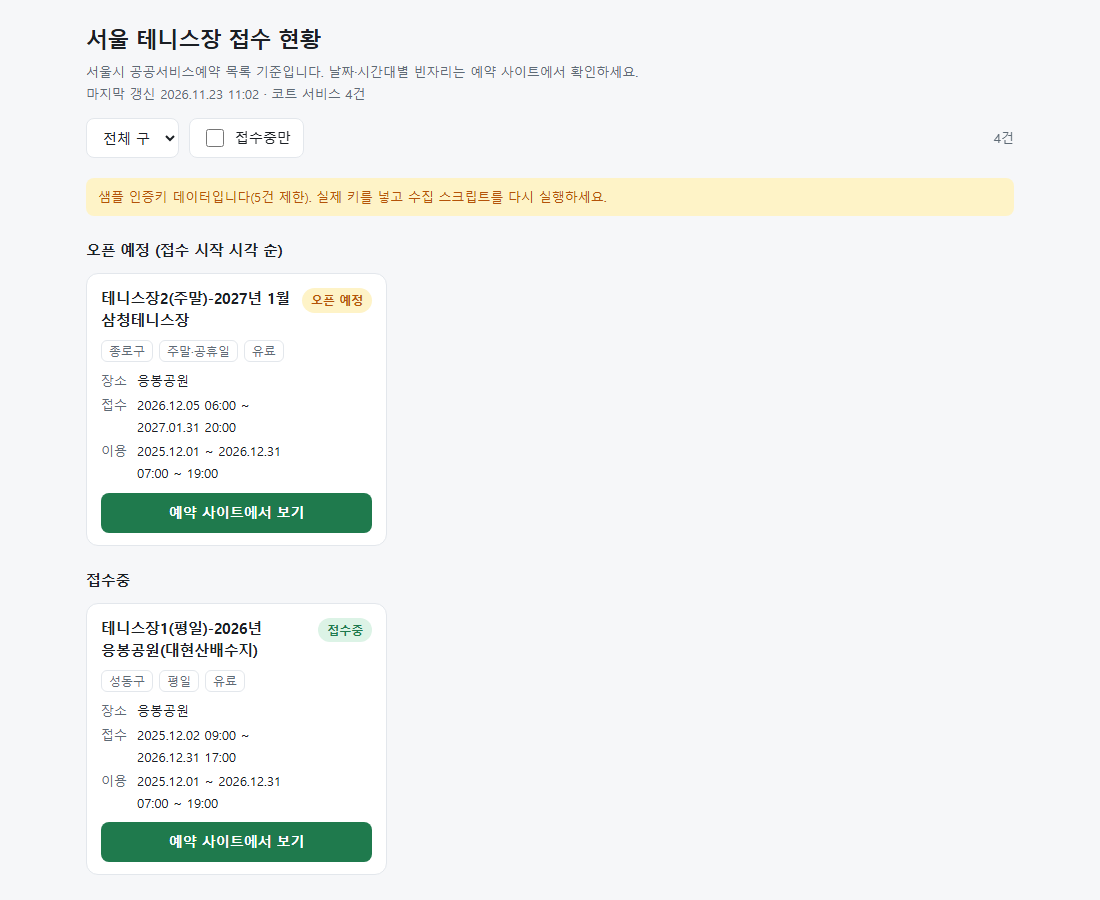
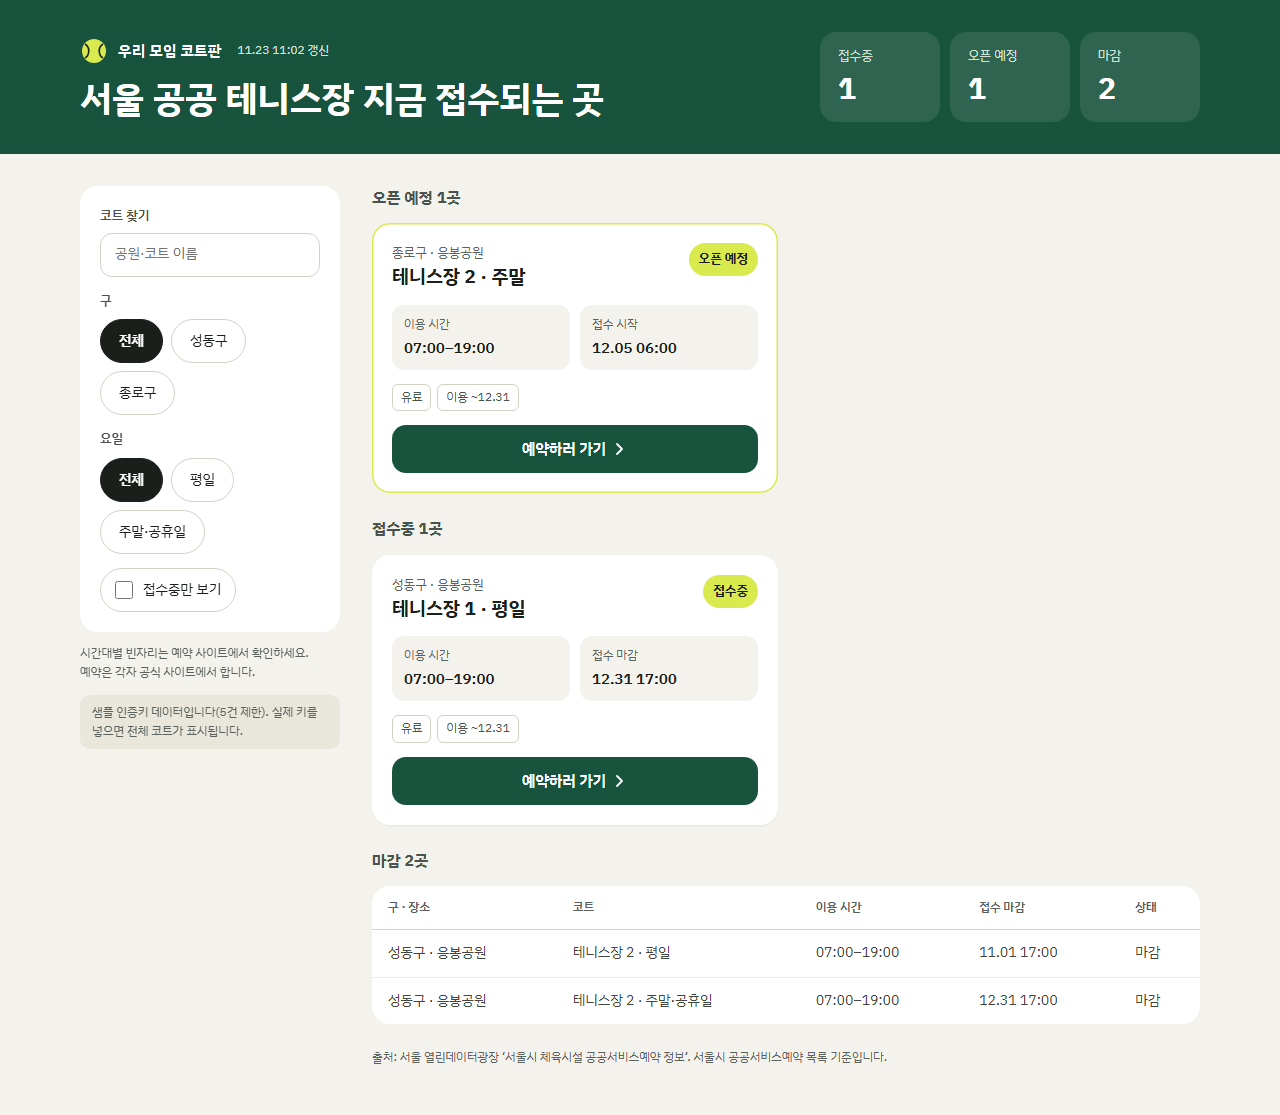
Claude Design 시안 반영: 반응형 코트판 화면

diff --git a/index.html b/index.html
@@ -3,117 +3,200 @@
 <head>
 <meta charset="utf-8">
 <meta name="viewport" content="width=device-width, initial-scale=1">
-<title>서울 테니스장 접수 현황</title>
+<title>우리 모임 코트판</title>
+<link rel="preconnect" href="https://fonts.googleapis.com">
+<link rel="preconnect" href="https://fonts.gstatic.com" crossorigin>
+<link href="https://fonts.googleapis.com/css2?family=IBM+Plex+Sans+KR:wght@400;500;600;700&display=swap" rel="stylesheet">
 <style>
-:root{--bg:#f6f7f9;--card:#fff;--ink:#1b1f24;--sub:#5f6b76;--line:#e3e7ec;--accent:#1f7a4d;--open:#1f7a4d;--soon:#b45309;--soonbg:#fef3c7;--closed:#7b8794;--openbg:#dcf3e6;--closedbg:#eceff2}
-@media(prefers-color-scheme:dark){:root{--bg:#14171a;--card:#1d2125;--ink:#e8ebee;--sub:#9aa5b0;--line:#2c3238;--accent:#2f9e6a;--open:#6fd6a3;--soon:#f2b45a;--soonbg:#3a2d12;--closed:#8a96a2;--openbg:#16382a;--closedbg:#262b30}}
+:root{--court:#17533D;--court-d:#0E3829;--ball:#D9EA4F;--bg:#F4F2EC;--ink:#1B1F1C;--sub:#5B625D;--sub2:#4A524D;--line:#D5D1C6;--card:#fff;--closedbg:#ECE9E1;--onhead:#CFE3D8}
 *{box-sizing:border-box}
-html{touch-action:manipulation}
-body{margin:0;background:var(--bg);color:var(--ink);font:15px/1.7 system-ui,-apple-system,"Malgun Gothic","Apple SD Gothic Neo",sans-serif;touch-action:manipulation}
-body,h1,h2,h3,p,li,.meta,.name{word-break:keep-all;overflow-wrap:anywhere}
+html{touch-action:manipulation;-webkit-text-size-adjust:100%}
+body{margin:0;background:var(--bg);color:var(--ink);font-family:'IBM Plex Sans KR',system-ui,-apple-system,'Malgun Gothic','Apple SD Gothic Neo',sans-serif;font-size:15px;line-height:1.6;word-break:keep-all;overflow-wrap:anywhere;touch-action:manipulation}
+button,input,summary,a{touch-action:manipulation;font:inherit}
+h1,h2,h3,p{margin:0}
 .u{display:inline-block}
-main{max-width:960px;margin:0 auto;padding:20px 16px 48px}
-h1{font-size:22px;letter-spacing:-.03em;margin:0 0 4px}
-.top p{margin:0;color:var(--sub);font-size:13px}
-.bar{position:sticky;top:0;z-index:2;background:var(--bg);padding:12px 0;display:flex;flex-wrap:wrap;gap:10px;align-items:center}
-select,.chk{font:inherit;font-size:14px;min-height:40px;border:1px solid var(--line);background:var(--card);color:var(--ink);border-radius:8px;padding:0 12px}
-.chk{display:inline-flex;align-items:center;gap:8px;cursor:pointer}
-.chk input{width:18px;height:18px;accent-color:var(--accent)}
-.count{margin-left:auto;color:var(--sub);font-size:13px}
-.notice{background:var(--soonbg);color:var(--soon);border-radius:8px;padding:8px 12px;font-size:13px;margin:8px 0}
-h2{font-size:15px;margin:22px 0 10px;letter-spacing:-.02em}
-.grid{display:grid;grid-template-columns:repeat(auto-fill,minmax(280px,1fr));gap:12px}
-.card{background:var(--card);border:1px solid var(--line);border-radius:12px;padding:14px 14px 12px;display:flex;flex-direction:column;gap:8px}
-.row1{display:flex;gap:8px;align-items:flex-start;justify-content:space-between}
-.name{font-weight:650;letter-spacing:-.02em;line-height:1.45}
-.badge{flex:none;font-size:12px;font-weight:650;padding:2px 9px;border-radius:99px;white-space:nowrap}
-.b-open{background:var(--openbg);color:var(--open)}.b-soon{background:var(--soonbg);color:var(--soon)}.b-closed{background:var(--closedbg);color:var(--closed)}
-.tags{display:flex;flex-wrap:wrap;gap:6px}
-.tag{font-size:12px;color:var(--sub);border:1px solid var(--line);border-radius:6px;padding:0 7px;white-space:nowrap}
-dl{margin:0;display:grid;grid-template-columns:auto 1fr;gap:2px 10px;font-size:13px}
-dt{color:var(--sub);white-space:nowrap}dd{margin:0;font-variant-numeric:tabular-nums}
-.go{margin-top:auto;display:flex;align-items:center;justify-content:center;min-height:40px;border-radius:8px;background:var(--accent);color:#fff;text-decoration:none;font-weight:650;font-size:14px}
-.card.closed{opacity:.65}.card.closed .go{background:var(--closed)}
-.empty{color:var(--sub);padding:32px 0;text-align:center}
-footer{margin-top:28px;color:var(--sub);font-size:12px}
+.hero{background:var(--court);color:#fff}
+.hero-in{max-width:1200px;margin:0 auto;padding:28px 20px 24px;display:flex;flex-direction:column;gap:18px}
+.hero-l{display:flex;flex-direction:column;gap:18px}
+.head-top{display:flex;justify-content:space-between;align-items:center;gap:12px;flex-wrap:wrap}
+.brand{display:flex;align-items:center;gap:10px;font-size:15px;font-weight:600;letter-spacing:.02em}
+.updated{font-size:12px;color:var(--onhead)}
+.hero h1{font-size:28px;line-height:1.3;font-weight:700}
+.stats{display:grid;grid-template-columns:repeat(3,minmax(0,1fr));gap:8px}
+.stat{background:rgba(255,255,255,.10);border-radius:14px;padding:12px;display:flex;flex-direction:column;gap:2px}
+.stat span{font-size:12px;color:var(--onhead)}
+.stat b{font-size:24px;font-weight:700;line-height:1.3}
+.wrap{max-width:1200px;margin:0 auto;padding:16px 20px 40px;display:flex;flex-direction:column;gap:20px}
+.panel{display:flex;flex-direction:column;gap:12px}
+.pbox{background:var(--card);border-radius:18px;padding:14px;display:flex;flex-direction:column;gap:12px}
+.flabel{font-size:13px;font-weight:600;color:var(--sub2)}
+.search{display:none;flex-direction:column;gap:6px}
+.search input{min-height:44px;border:1px solid var(--line);border-radius:12px;padding:0 14px;font-size:14px;color:var(--ink);background:#fff}
+.chips{display:flex;flex-wrap:wrap;gap:8px}
+.chip{min-height:44px;padding:0 18px;border-radius:999px;border:1px solid var(--line);background:#fff;color:var(--ink);font-size:14px;cursor:pointer}
+.chip[aria-pressed=true]{background:var(--ink);border-color:var(--ink);color:#fff;font-weight:600}
+.chk{min-height:44px;display:inline-flex;align-items:center;gap:10px;font-size:14px;cursor:pointer;border:1px solid var(--line);background:#fff;border-radius:999px;padding:0 14px;align-self:flex-start}
+.chk input{width:18px;height:18px;margin:0;accent-color:var(--court)}
+.chip:focus-visible,.chk:focus-within,.go:focus-visible,summary:focus-visible,.search input:focus-visible{outline:3px solid #2F7FD8;outline-offset:2px}
+.dayrow{display:none;flex-direction:column;gap:8px}
+.grow{display:flex;flex-direction:column;gap:8px}
+.note{font-size:12px;color:var(--sub);line-height:1.6}
+.notice{font-size:12px;color:var(--sub);background:#E9E6DC;border-radius:10px;padding:8px 12px}
+main{display:flex;flex-direction:column;gap:24px;min-width:0}
+#list{display:flex;flex-direction:column;gap:24px}
+section{display:flex;flex-direction:column;gap:12px}
+h2{font-size:15px;font-weight:700;color:var(--sub2)}
+.dash{border:1.5px dashed #CBC6B8;border-radius:18px;padding:18px;font-size:14px;color:var(--sub);line-height:1.6}
+.grid{display:grid;grid-template-columns:1fr;gap:12px}
+.card{background:var(--card);border-radius:18px;padding:18px;display:flex;flex-direction:column;gap:14px;box-shadow:0 1px 2px rgba(27,31,28,.06)}
+.card.soon{box-shadow:inset 0 0 0 1.5px var(--ball)}
+.r1{display:flex;justify-content:space-between;align-items:flex-start;gap:12px}
+.place{font-size:13px;color:var(--sub)}
+h3{font-size:18px;line-height:1.4;font-weight:700}
+.badge{flex-shrink:0;background:var(--ball);color:#1B1F1C;font-size:13px;font-weight:700;padding:6px 10px;border-radius:999px}
+.facts{display:grid;grid-template-columns:repeat(2,minmax(0,1fr));gap:10px}
+.fact{background:var(--bg);border-radius:12px;padding:10px 12px;display:flex;flex-direction:column;gap:2px}
+.fact span{font-size:12px;color:var(--sub)}
+.fact b{font-size:15px;font-weight:600;font-variant-numeric:tabular-nums}
+.tags{display:flex;gap:6px;flex-wrap:wrap}
+.tag{font-size:12px;color:var(--sub2);border:1px solid var(--line);border-radius:6px;padding:3px 8px}
+.go{min-height:48px;border-radius:14px;background:var(--court);color:#fff;font-size:15px;font-weight:600;text-decoration:none;display:flex;align-items:center;justify-content:center;gap:6px}
+.go:hover{background:var(--court-d);color:#fff}
+details.closed summary{min-height:44px;display:flex;align-items:center;justify-content:space-between;cursor:pointer;font-size:15px;font-weight:700;color:var(--sub2);list-style:none}
+details.closed summary::-webkit-details-marker{display:none}
+details.closed summary::after{content:"펼치기";font-size:12px;font-weight:600;color:var(--sub)}
+details.closed[open] summary::after{content:"접기"}
+.crow{background:var(--closedbg);border-radius:14px;padding:14px 16px;display:flex;justify-content:space-between;align-items:center;gap:12px;margin-top:10px}
+.crow .n{display:flex;flex-direction:column;gap:2px}
+.crow .n b{font-size:15px;font-weight:600;color:#3F4541}
+.crow .n span{font-size:12px;color:var(--sub)}
+.crow em{font-style:normal;font-size:12px;font-weight:600;color:var(--sub)}
+.pc-only{display:none}
+.tablebox{background:var(--card);border-radius:18px;overflow-x:auto}
+table{width:100%;border-collapse:collapse;font-size:14px;min-width:560px}
+th{text-align:left;color:var(--sub);font-size:12px;font-weight:600;padding:12px 16px;border-bottom:1px solid var(--line)}
+td{padding:12px 16px;border-bottom:1px solid #EFEDE6;color:#3F4541}
+tr:last-child td{border-bottom:0}
+.empty{color:var(--sub);padding:20px 0;text-align:center}
+footer{font-size:12px;color:var(--sub);line-height:1.6}
+@media (min-width:900px){
+  .hero-in{padding:32px 40px;flex-direction:row;flex-wrap:wrap;align-items:flex-end;justify-content:space-between;gap:24px}
+  .hero-l{gap:12px}
+  .head-top{justify-content:flex-start;gap:16px}
+  .hero h1{font-size:36px;line-height:1.25}
+  .hero h1 br{display:none}
+  .stats{display:flex;gap:10px}
+  .stat{min-width:120px;border-radius:16px;padding:14px 18px}
+  .stat span{font-size:13px}
+  .stat b{font-size:30px}
+  .wrap{flex-direction:row;align-items:flex-start;gap:32px;padding:32px 40px 48px}
+  .panel{flex:0 0 260px;position:sticky;top:16px}
+  .pbox{padding:20px;gap:14px}
+  .search,.dayrow{display:flex}
+  main{flex:1 1 0}
+  h2{font-size:16px}
+  .grid{grid-template-columns:repeat(auto-fill,minmax(300px,1fr));gap:16px}
+  .card{padding:20px}
+  h3{font-size:19px}
+  details.closed{display:none}
+  .pc-only{display:flex;flex-direction:column;gap:12px}
+}
 </style>
 </head>
 <body>
-<main>
-  <header class="top">
-    <h1>서울 테니스장 접수 현황</h1>
-    <p><span class="u">서울시 공공서비스예약 목록 기준입니다.</span> <span class="u">날짜·시간대별 빈자리는 예약 사이트에서 확인하세요.</span></p>
-    <p id="updated"></p>
-  </header>
-  <div class="bar">
-    <select id="gu" aria-label="구 선택"><option value="">전체 구</option></select>
-    <label class="chk"><input type="checkbox" id="onlyOpen"> 접수중만</label>
-    <span class="count" id="count"></span>
+<header class="hero"><div class="hero-in">
+  <div class="hero-l">
+    <div class="head-top">
+      <div class="brand"><svg width="28" height="28" viewBox="0 0 28 28" aria-hidden="true"><circle cx="14" cy="14" r="12" fill="#D9EA4F"/><path d="M5 7c5 3 5 11 0 14M23 7c-5 3-5 11 0 14" fill="none" stroke="#1B1F1C" stroke-width="1.6"/></svg>우리 모임 코트판</div>
+      <span class="updated" id="updated"></span>
+    </div>
+    <h1>서울 공공 테니스장<br> 지금 접수되는 곳</h1>
   </div>
-  <div id="notice"></div>
-  <div id="list"></div>
-  <footer><span class="u">출처: 서울 열린데이터광장 ‘서울시 체육시설 공공서비스예약 정보’.</span> <span class="u">예약은 서울시 공공서비스예약 사이트에서만 가능합니다.</span></footer>
-</main>
+  <div class="stats" aria-label="현황 요약">
+    <div class="stat"><span>접수중</span><b id="nOpen">0</b></div>
+    <div class="stat"><span>오픈 예정</span><b id="nSoon">0</b></div>
+    <div class="stat"><span>마감</span><b id="nClosed">0</b></div>
+  </div>
+</div></header>
+
+<div class="wrap">
+  <aside class="panel" aria-label="필터">
+    <div class="pbox">
+      <label class="search"><span class="flabel">코트 찾기</span><input type="search" id="q" placeholder="공원·코트 이름" autocomplete="off"></label>
+      <div class="grow"><div class="flabel">구</div><div class="chips" id="guChips"></div></div>
+      <div class="dayrow" id="dayBox"><div class="flabel">요일</div><div class="chips" id="dayChips"></div></div>
+      <label class="chk"><input type="checkbox" id="onlyOpen">접수중만 보기</label>
+    </div>
+    <p class="note"><span class="u">시간대별 빈자리는 예약 사이트에서 확인하세요.</span> <span class="u">예약은 각자 공식 사이트에서 합니다.</span></p>
+    <div id="notice"></div>
+  </aside>
+
+  <main>
+    <div id="list"></div>
+    <footer><span class="u">출처: 서울 열린데이터광장 ‘서울시 체육시설 공공서비스예약 정보’.</span> <span class="u">서울시 공공서비스예약 목록 기준입니다.</span></footer>
+  </main>
+</div>
+
 <script>
 (function(){
   var $=function(id){return document.getElementById(id)};
   var DATA=new URLSearchParams(location.search).get('data')||'data/courts.json';
-  var courts=[];
-  function parse(s){
-    if(!s) return null; var m=s.match(/(\d+)-(\d+)-(\d+)[ T](\d+):(\d+)/); if(!m) return null;
-    return new Date(+m[1],m[2]-1,+m[3],+m[4],+m[5]);
-  }
+  var courts=[],S={gu:'',day:'',only:false,q:''};
+  function parse(s){if(!s)return null;var m=s.match(/(\d+)-(\d+)-(\d+)[ T](\d+):(\d+)/);return m?new Date(+m[1],m[2]-1,+m[3],+m[4],+m[5]):null}
   function p2(n){return ('0'+n).slice(-2)}
-  function fmt(d){ return d?d.getFullYear()+'.'+p2(d.getMonth()+1)+'.'+p2(d.getDate())+' '+p2(d.getHours())+':'+p2(d.getMinutes()):'-'; }
-  function fmtDay(d){ return d?d.getFullYear()+'.'+p2(d.getMonth()+1)+'.'+p2(d.getDate()):'-'; }
-  function state(c,now){
-    var b=parse(c.RCPTBGNDT),e=parse(c.RCPTENDDT);
-    if(b&&now<b) return 'soon';
-    if(e&&now>e) return 'closed';
-    if(/마감|종료|중지/.test(c.SVCSTATNM)) return 'closed';
-    return 'open';
-  }
-  var LABEL={soon:'오픈 예정',open:'접수중',closed:'마감'};
-  function daytype(n){ return /평일/.test(n)?'평일':(/주말|휴일/.test(n)?'주말·공휴일':''); }
-  function esc(s){return String(s==null?'':s).replace(/[&<>"]/g,function(c){return {'&':'&amp;','<':'&lt;','>':'&gt;','"':'&quot;'}[c]})}
+  function md(d){return d?p2(d.getMonth()+1)+'.'+p2(d.getDate()):'-'}
+  function mdt(d){return d?md(d)+' '+p2(d.getHours())+':'+p2(d.getMinutes()):'-'}
+  function state(c,now){var b=parse(c.RCPTBGNDT),e=parse(c.RCPTENDDT);
+    if(b&&now<b)return'soon'; if(e&&now>e)return'closed'; if(/마감|종료|중지/.test(c.SVCSTATNM))return'closed'; return'open'}
+  function esc(s){return String(s==null?'':s).replace(/[&<>"]/g,function(c){return{'&':'&amp;','<':'&lt;','>':'&gt;','"':'&quot;'}[c]})}
   function safeUrl(u){return /^https:\/\/yeyak\.seoul\.go\.kr\//.test(u)?u:''}
-  function card(c){
-    var st=c._st,dt=daytype(c.SVCNM),url=safeUrl(c.SVCURL);
-    var tags=[c.AREANM,dt,c.METHOD,c.PAYATNM].filter(Boolean).map(function(t){return '<span class="tag">'+esc(t)+'</span>'}).join('');
-    return '<article class="card '+(st==='closed'?'closed':'')+'"><div class="row1"><div class="name">'+esc(c.SVCNM)+'</div><span class="badge b-'+st+'">'+LABEL[st]+'</span></div>'
-      +'<div class="tags">'+tags+'</div><dl>'
-      +'<dt>장소</dt><dd>'+esc(c.PLACENM||'-')+'</dd>'
-      +'<dt>접수</dt><dd>'+fmt(c._b)+' ~<br>'+fmt(c._e)+'</dd>'
-      +'<dt>이용</dt><dd>'+fmtDay(parse(c.SVCOPNBGNDT))+' ~ '+fmtDay(parse(c.SVCOPNENDDT))+(c.V_MIN?'<br>'+esc(c.V_MIN)+' ~ '+esc(c.V_MAX):'')+'</dd>'
-      +'</dl>'+(url?'<a class="go" href="'+esc(url)+'" target="_blank" rel="noopener">예약 사이트에서 보기</a>':'')+'</article>';
-  }
+  function daytype(n){return /평일/.test(n)?'평일':(/주말|휴일|토\/일/.test(n)?'주말·공휴일':'')}
+  function title(c){var m=(c.SVCNM||'').match(/^(.*?)\s*\((.*?)\)\s*-/);
+    if(m)return m[1].replace(/(\D)(\d)/,'$1 $2')+' · '+m[2].replace(/토\/일\/공휴일/,'주말·공휴일'); return c.SVCNM||'-'}
+  function place(c){return [c.AREANM,c.PLACENM].filter(Boolean).join(' · ')}
+  function range(c){return c.V_MIN?c.V_MIN+'–'+c.V_MAX:'-'}
+  function tags(c){var t=[];if(c.PAYATNM)t.push(c.PAYATNM);var e=parse(c.SVCOPNENDDT);if(e)t.push('이용 ~'+md(e));
+    return t.map(function(x){return'<span class="tag">'+esc(x)+'</span>'}).join('')}
+  function card(c){var st=c._st,url=safeUrl(c.SVCURL);
+    var second=st==='soon'?['접수 시작',mdt(c._b)]:['접수 마감',mdt(c._e)];
+    return '<article class="card '+st+'"><div class="r1"><div><div class="place">'+esc(place(c))+'</div><h3>'+esc(title(c))+'</h3></div>'
+     +'<span class="badge">'+(st==='soon'?'오픈 예정':'접수중')+'</span></div>'
+     +'<div class="facts"><div class="fact"><span>이용 시간</span><b>'+esc(range(c))+'</b></div><div class="fact"><span>'+second[0]+'</span><b>'+second[1]+'</b></div></div>'
+     +'<div class="tags">'+tags(c)+'</div>'
+     +(url?'<a class="go" href="'+esc(url)+'" target="_blank" rel="noopener">예약하러 가기 <svg width="16" height="16" viewBox="0 0 16 16" aria-hidden="true"><path d="M5 3l5 5-5 5" fill="none" stroke="#fff" stroke-width="1.8" stroke-linecap="round" stroke-linejoin="round"/></svg></a>':'')+'</article>'}
+  function chips(el,items,key){el.innerHTML=items.map(function(it){return'<button type="button" class="chip" data-v="'+esc(it[0])+'" aria-pressed="'+(S[key]===it[0])+'">'+esc(it[1])+'</button>'}).join('');
+    el.onclick=function(e){var b=e.target.closest('.chip');if(!b)return;S[key]=b.getAttribute('data-v');chips(el,items,key);render()}}
   function render(){
-    var gu=$('gu').value,only=$('onlyOpen').checked;
-    var list=courts.filter(function(c){return (!gu||c.AREANM===gu)&&(!only||c._st==='open')});
-    var order={soon:0,open:1,closed:2};
-    list.sort(function(a,b){
-      if(a._st!==b._st) return order[a._st]-order[b._st];
-      if(a._st==='soon') return (a._b-b._b)||0;
-      return (a.AREANM||'').localeCompare(b.AREANM||'','ko')||(a.SVCNM||'').localeCompare(b.SVCNM||'','ko');
-    });
-    $('count').textContent=list.length+'건';
-    if(!list.length){$('list').innerHTML='<p class="empty">조건에 맞는 코트가 없습니다.</p>';return}
-    var html='',cur=null,grid='',titles={soon:'오픈 예정 (접수 시작 시각 순)',open:'접수중',closed:'마감'};
-    list.forEach(function(c){
-      if(c._st!==cur){ if(cur!==null) html+='<div class="grid">'+grid+'</div>'; grid=''; cur=c._st; html+='<h2>'+titles[cur]+'</h2>'; }
-      grid+=card(c);
-    });
-    $('list').innerHTML=html+'<div class="grid">'+grid+'</div>';
+    var q=S.q.trim().toLowerCase();
+    var list=courts.filter(function(c){
+      if(S.gu&&c.AREANM!==S.gu)return false;
+      if(S.day&&daytype(c.SVCNM)!==S.day)return false;
+      if(q&&((c.SVCNM||'')+' '+(c.PLACENM||'')).toLowerCase().indexOf(q)<0)return false;
+      return true});
+    var soon=list.filter(function(c){return c._st==='soon'}).sort(function(a,b){return a._b-b._b});
+    var open=list.filter(function(c){return c._st==='open'}).sort(function(a,b){return (a._e-b._e)||0});
+    var closed=list.filter(function(c){return c._st==='closed'});
+    ['open','soon','closed'].forEach(function(s){$('n'+s.charAt(0).toUpperCase()+s.slice(1)).textContent=courts.filter(function(c){return c._st===s}).length});
+    var h='<section><h2>오픈 예정'+(soon.length?' '+soon.length+'곳':'')+'</h2>'+(soon.length?'<div class="grid">'+soon.map(card).join('')+'</div>':'<div class="dash">새로 열릴 접수가 생기면 여기 맨 위에 시각과 함께 뜹니다.</div>')+'</section>';
+    h+='<section><h2>접수중 '+open.length+'곳</h2>'+(open.length?'<div class="grid">'+open.map(card).join('')+'</div>':'<p class="empty">조건에 맞는 접수중 코트가 없습니다.</p>')+'</section>';
+    if(!S.only&&closed.length){
+      h+='<section><details class="closed"><summary>마감 '+closed.length+'곳</summary>'+closed.map(function(c){return'<div class="crow"><div class="n"><b>'+esc(title(c))+'</b><span>'+esc(place(c))+'</span></div><em>마감</em></div>'}).join('')+'</details>'
+       +'<div class="pc-only"><h2>마감 '+closed.length+'곳</h2><div class="tablebox"><table><thead><tr><th>구 · 장소</th><th>코트</th><th>이용 시간</th><th>접수 마감</th><th>상태</th></tr></thead><tbody>'
+       +closed.map(function(c){return'<tr><td>'+esc(place(c))+'</td><td>'+esc(title(c))+'</td><td>'+esc(range(c))+'</td><td>'+mdt(c._e)+'</td><td>마감</td></tr>'}).join('')+'</tbody></table></div></div></section>'}
+    $('list').innerHTML=h;
   }
   fetch(DATA,{cache:'no-store'}).then(function(r){if(!r.ok)throw new Error(r.status);return r.json()}).then(function(d){
     var now=new Date();
     courts=d.courts.map(function(c){c._b=parse(c.RCPTBGNDT);c._e=parse(c.RCPTENDDT);c._st=state(c,now);return c});
-    $('updated').textContent='마지막 갱신 '+fmt(parse(d.updated_at))+' · 코트 서비스 '+d.count+'건';
-    if(d.sample_key) $('notice').innerHTML='<div class="notice">샘플 인증키 데이터입니다(5건 제한). 실제 키를 넣고 수집 스크립트를 다시 실행하세요.</div>';
+    var u=parse(d.updated_at);$('updated').textContent=u?mdt(u)+' 갱신':'';
+    if(d.sample_key)$('notice').innerHTML='<div class="notice">샘플 인증키 데이터입니다(5건 제한). 실제 키를 넣으면 전체 코트가 표시됩니다.</div>';
     var gus=Array.from(new Set(courts.map(function(c){return c.AREANM}).filter(Boolean))).sort(function(a,b){return a.localeCompare(b,'ko')});
-    $('gu').innerHTML='<option value="">전체 구</option>'+gus.map(function(g){return '<option>'+esc(g)+'</option>'}).join('');
-    $('gu').onchange=render;$('onlyOpen').onchange=render;render();
-  }).catch(function(){$('list').innerHTML='<p class="empty">data/courts.json 을 불러오지 못했습니다. 로컬 서버(python -m http.server)로 여세요.</p>'});
+    chips($('guChips'),[['','전체']].concat(gus.map(function(g){return[g,g]})),'gu');
+    chips($('dayChips'),[['','전체'],['평일','평일'],['주말·공휴일','주말·공휴일']],'day');
+    $('q').oninput=function(){S.q=this.value;render()};
+    $('onlyOpen').onchange=function(){S.only=this.checked;render()};
+    render();
+  }).catch(function(){$('list').innerHTML='<p class="empty">data/courts.json 을 불러오지 못했습니다.</p>'});
 })();
 </script>
 </body>
